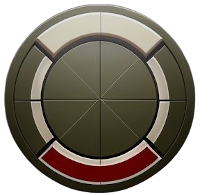
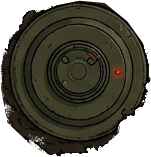
update landmine visuals and remove some old assets

diff --git a/src/GameDemo/RTSDemo/RTSAssetManager.java b/src/GameDemo/RTSDemo/RTSAssetManager.java
@@ -21,7 +21,7 @@ public abstract class RTSAssetManager {
 
     // RTS ASSETS
     public static BufferedImage tankChasis, tankChasisRed;
-    public static BufferedImage tankTurret, tankTurretRed, tankTurretShadow;
+    public static BufferedImage tankTurret, tankTurretRed;
     public static BufferedImage tankHullDamaged, tankHullDamagedRed;
     public static BufferedImage tankTurretDamaged, tankTurretDamagedRed;
     public static BufferedImage[] tankFireAnimation, tankFireAnimationRed;
@@ -57,7 +57,7 @@ public abstract class RTSAssetManager {
     public static BufferedImage infantryLegs, infantryShadow;
     public static BufferedImage tankSelectionImage, lightTankSelectionImage, riflemanSelectionImage, bazookamanSelectionImage, hellicopterSelectionImage;
 
-    public static BufferedImage building, buildingShadow;
+    public static BufferedImage building;
 
     public static BufferedImage[] explosionSequence;
     public static BufferedImage[] explosionSequenceSmall;
@@ -151,7 +151,6 @@ public abstract class RTSAssetManager {
             tankChasisRed = greenToRed(tankChasis);
             tankTurret = load("DemoAssets/TankGame/newTank/newTurret.png");
             tankTurretRed = greenToRed(tankTurret);
-            tankTurretShadow = load("DemoAssets/TankGame/tank1-turret-shadow.png");
             tankFireAnimation = loadSequence("DemoAssets/TankGame/newTank/fireAnimation");
             tankFireAnimationRed = greenToRed(tankFireAnimation);
             bullet = load("DemoAssets/TankGame/bullet.png");
@@ -253,7 +252,6 @@ public abstract class RTSAssetManager {
     private static CompletableFuture<Void> loadUtilityAssets() {
         return CompletableFuture.runAsync(() -> {
             building = load("DemoAssets/TankGame/building.png");
-            buildingShadow = load("DemoAssets/TankGame/buildingShadow.png");
             immobilizationIcon = load("DemoAssets/TankGame/immobilizationIcon.png");
             shieldIcon = load("DemoAssets/TankGame/shieldIcon.png");
         }, executor);

diff --git a/src/GameDemo/RTSDemo/Units/Landmine.java b/src/GameDemo/RTSDemo/Units/Landmine.java
@@ -27,13 +27,17 @@ public class Landmine extends RTSUnit {
     public static final Sprite landmineHiddenRed = new Sprite(RTSAssetManager.landmineRed);
     public static final Sprite shadow = Sprite.generateShadowSprite(RTSAssetManager.landmine, .4);
     public static final Sequence deathFadeout = Sequence.createFadeout(RTSAssetManager.landmineBlast, 60);
-    public static final double VISUAL_SCALE = .18;
+    public static final double VISUAL_SCALE = .2;
     
     public Damage damage = staticDamage.copy();
 
     static {
-        landmineHidden.setOpacity(.5);
-        landmineHiddenRed.setOpacity(.5);
+        landmineHidden.applyAlphaEdgeBlurSelf(1);
+        landmineHiddenRed.applyAlphaEdgeBlurSelf(1);
+        landmineVisible.applyAlphaEdgeBlurSelf(1);
+        landmineVisibleRed.applyAlphaEdgeBlurSelf(1);
+        landmineHidden.setOpacity(.6);
+        landmineHiddenRed.setOpacity(.6);
         shadow.scaleTo(VISUAL_SCALE);
     }
 

diff --git a/src/GameDemo/RTSDemo/Units/TankUnit.java b/src/GameDemo/RTSDemo/Units/TankUnit.java
@@ -112,8 +112,8 @@ public class TankUnit extends RTSUnit {
         deathShadow = new Sprite(RTSAssetManager.tankDeadHullShadow);
         deathFadeout = Sequence.createFadeout(RTSAssetManager.tankDeadHullShadow, 40);
         deathFadeout.setSignature("fadeout");
-        shadow = Sprite.generateShadowSprite(RTSAssetManager.tankChasis, .8); // new Sprite(RTSAssetManager.tankShadow);
-        turretShadow = Sprite.generateShadowSprite(RTSAssetManager.tankTurret, .8); // new Sprite(RTSAssetManager.tankTurretShadow);
+        shadow = Sprite.generateShadowSprite(RTSAssetManager.tankChasis, .8);
+        turretShadow = Sprite.generateShadowSprite(RTSAssetManager.tankTurret, .8);
 
         tankHullDamagedGreen = new Sprite(RTSAssetManager.tankHullDamaged);
         tankTurretDamagedGreen = new Sprite(RTSAssetManager.tankTurretDamaged);

diff --git a/src/GameDemo/RTSDemo/KeyBuilding.java b/src/GameDemo/RTSDemo/KeyBuilding.java
@@ -17,7 +17,7 @@ import java.util.ArrayList;
  */
 public class KeyBuilding extends GameObject2 {
     public static final Sprite mainSprite = new Sprite(RTSAssetManager.building);
-    public static final Sprite shadowSprite = Sprite.generateShadowSprite(mainSprite.getImage(), .5); // new Sprite(RTSAssetManager.buildingShadow);
+    public static final Sprite shadowSprite = Sprite.generateShadowSprite(mainSprite.getImage(), .5);
     private static final double CAPTURE_RATE = 0.01;
     private static final double CAPTURE_THRESHOLD = 1.0;
     public static final double VISUAL_SCALE = 1;
